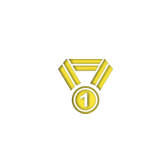
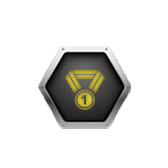
Sidebar Background

Changed region(s): [[0.2083, 0.2679, 0.8036, 0.7738]]

diff --git a/app/css/3dnavbar.css b/app/css/3dnavbar.css
@@ -10,7 +10,6 @@ body {
 
 .id1{
 	color: #fff;
-	font-family: "georgia";
 	font-size: 24px;
 }
 .id1:hover {
@@ -21,8 +20,7 @@ body {
 	height:100%;
 	padding: 20px;
 	overflow: hidden;
-	background: #820000;
-	color: #fff;
+	color: rgba(255,255,255,0.8);
 
 	-webkit-box-sizing: border-box;
 	   -moz-box-sizing: border-box;
@@ -33,7 +31,7 @@ body {
 	}
 		.meny ul li {
 			display: inline-block;
-			width: 200px;
+			width: 220px;
 			list-style: none;
 			font-size: 20px;
 			padding: 3px 10px;
@@ -63,7 +61,7 @@ body {
 		left: 14px;
 		top: 50%;
 		margin-top: -16px;
-		border-left: 16px solid #a30000;
+		border-left: 16px solid #7d0000;
 	}
 	.meny-right .meny-arrow {
 		right: 14px;
@@ -136,8 +134,7 @@ body {
 	display: none;
 	padding: 3px;
 	overflow: none;
-	background: #476bb2;
-	color: #a30000;
+	background: rgba(255,255,255,0.05);
 
 	-webkit-box-sizing: border-box;
 	   -moz-box-sizing: border-box;
@@ -148,19 +145,18 @@ body {
 	}
 		.meny1  li {
 			display: inline-block;
-			width: 130px;
+			width: 170px;
 			list-style: none;
 			padding: 3px 10px;
 		}
 			.meny1  li:before {
-				content: '-';
+				content: '';
 				margin-right: 5px;
-				color: rgba( 255, 255, 255, 0.2 );
+				color: rgba( 255, 255, 255, 0.9 );
 			}
 			.meny1  li a{
 				font-size: 16px;
-				font-family: "georgia";
-				color: #000;
+				color: #fff;
 			}
 
 

diff --git a/app/css/style.css b/app/css/style.css
@@ -181,7 +181,6 @@ body{
 .mh-menu li a span{
 	font-weight: 400;
 	font-size: 28px;
-	font-family: 'Alegreya SC', Georgia, serif;
 	-webkit-transition: color 0.2s linear;
 	-moz-transition: color 0.2s linear;
 	-o-transition: color 0.2s linear;
@@ -193,12 +192,14 @@ body{
 	text-decoration:none;
 	color:black;
 	background:white;
+	border-radius:5px;
+	text-shadow:2px;
 }
 .mh-menu li:hover span{
 }
 .mh-menu li .content{
 	position: absolute;
-	color:rgba(0,0,0,0.6);
+	color:rgba(0,0,0,0.8);
 	font-size:1.1em;
 	min-height:300px;
 	min-width:600px;
@@ -220,4 +221,5 @@ body{
 .mh-menu li.active .content{
 	left: 300px;
 	opacity: 1;
+	
 }

diff --git a/app/css/bootstrap.css b/app/css/bootstrap.css
@@ -6318,7 +6318,7 @@ th {
 	position:fixed;
 	left:0%;
 	width:100%;
-	top:580px;
+	bottom:3%;
 	z-index:100;
 }
 body{
@@ -6332,7 +6332,7 @@ a[data-title]{
 a[data-title]:hover:after{
 	background: rgba(0,0,0,.8);
 	border-radius: 5px;
-	bottom: 140px;
+	bottom: 120px;
 	color: #fff;
 	content: attr(data-title);
 	left: 0%;
@@ -6347,7 +6347,7 @@ a[data-title]:hover:before{
 	border: solid;
 	border-color: rgba(0,0,0,0.8) transparent;
 	border-width: 6px 6px 0 6px;
-	bottom: 134px;
+	bottom: 114px;
 	content: "";
 	left: 55%;
 	position: absolute;

diff --git a/app/index.html b/app/index.html
@@ -94,6 +94,9 @@ body{
 	background:url('images/amb.gif');
 }
 
+.meny{
+	background:url('images/sb.jpg');
+}
 .contents{
 	background-image:url('images/ele.png');
 	background-repeat:no-repeat;
